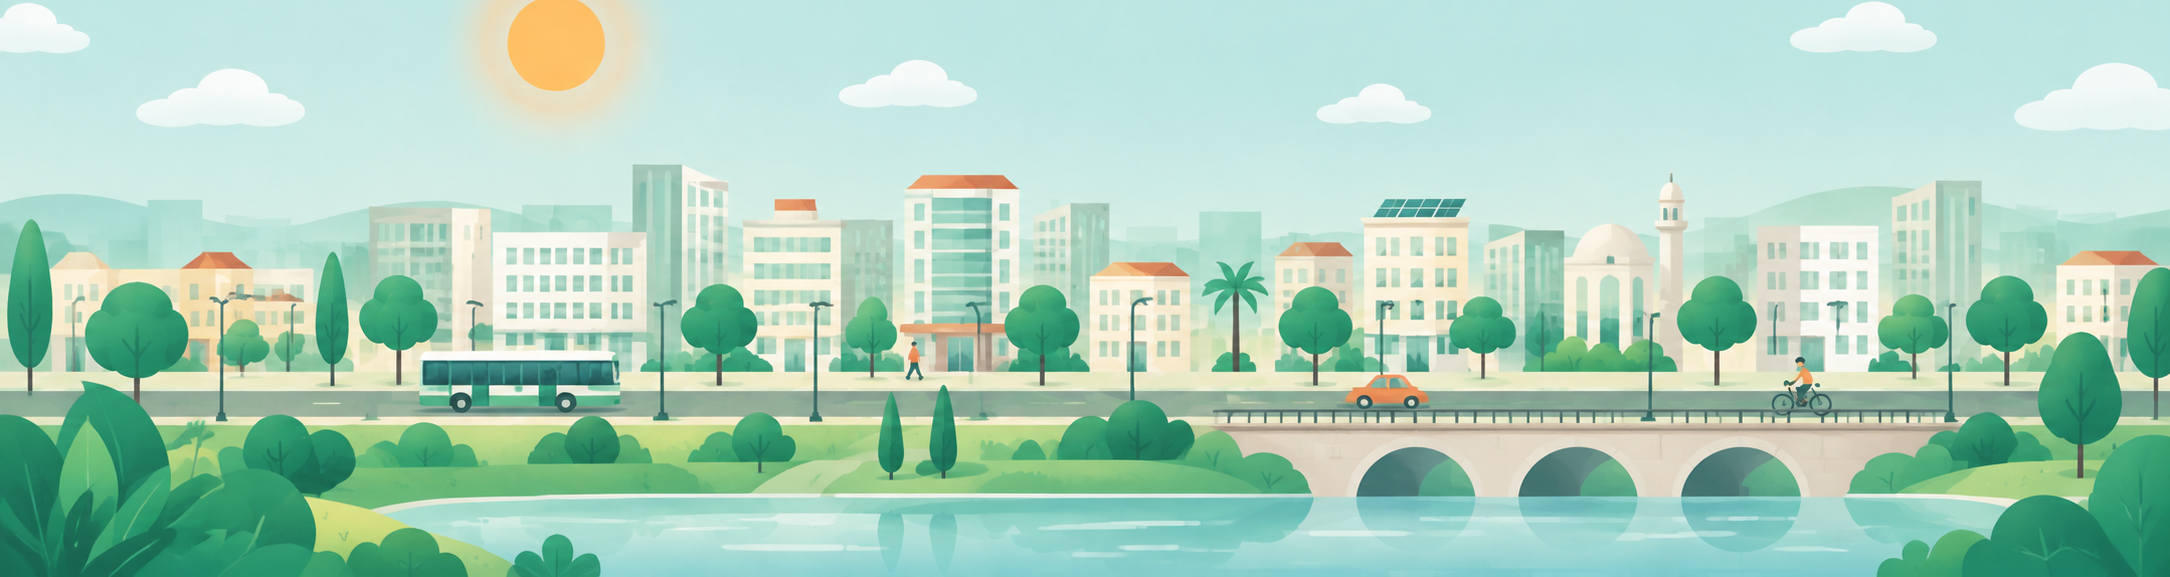
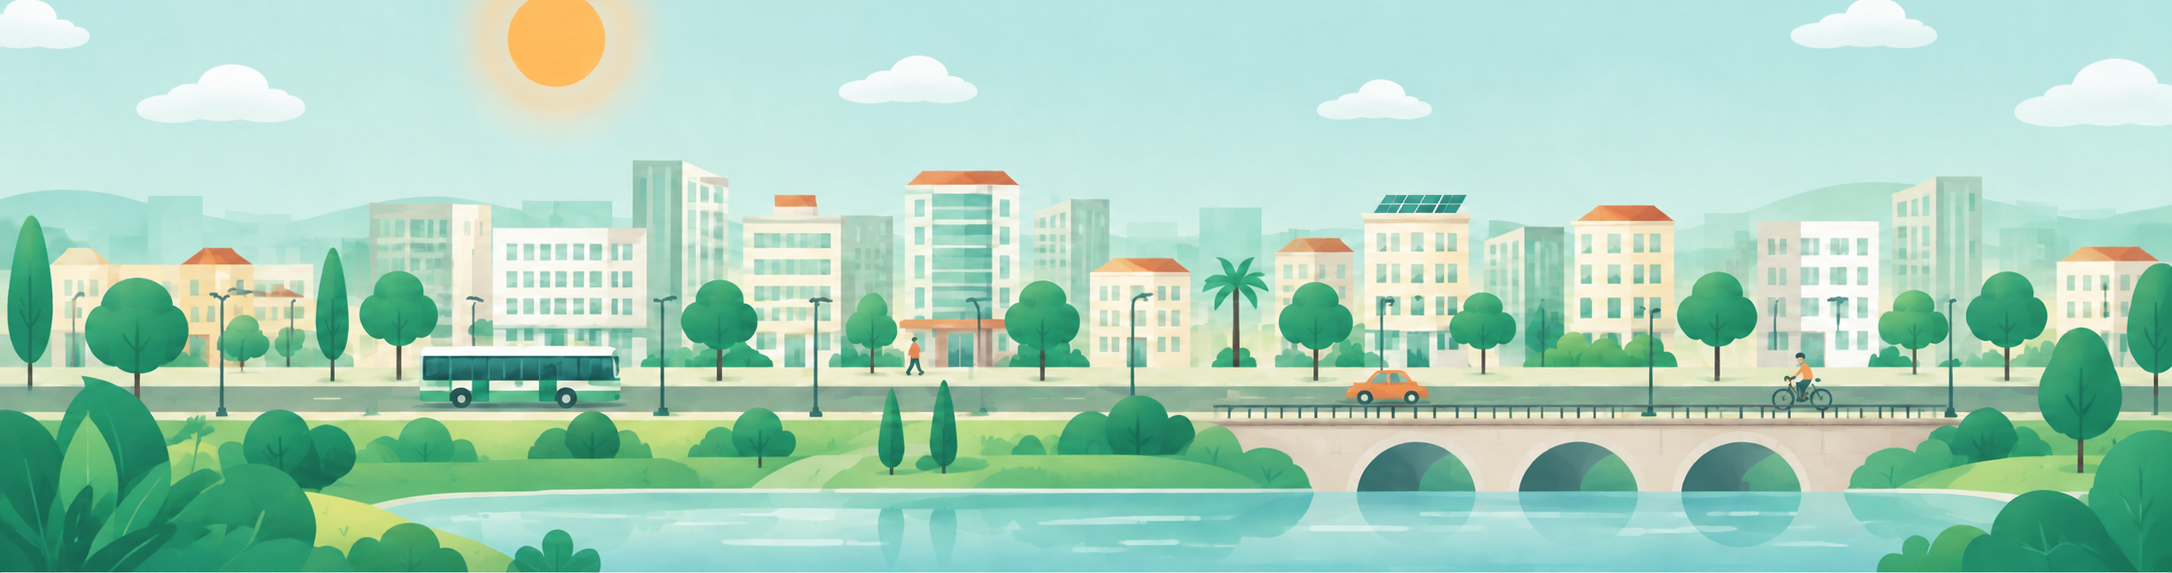
renaming staionary energy

diff --git a/src/app/[locale]/collectivity/projects/[planId]/inventory/InventorySchema/energy/stationary-energy.ts b/src/app/[locale]/collectivity/projects/[planId]/inventory/InventorySchema/energy/stationary-energy.ts
@@ -3,9 +3,9 @@ import { z } from "zod";
 import { createYearValueSchema } from "../_shared";
 
 type NonEmptyStringArray = [string, ...string[]];
-type TerritorialEnergyMetricDefinitions = Record<string, NonEmptyStringArray>;
+type StationaryEnergyMetricDefinitions = Record<string, NonEmptyStringArray>;
 
-export const territorialEnergySectorValues = [
+export const stationaryEnergySectorValues = [
   "residential",
   "tertiary",
   "industry",
@@ -13,28 +13,28 @@ export const territorialEnergySectorValues = [
   "agriculture",
 ] as const;
 
-export const territorialEnergySectorSchema = z.enum(territorialEnergySectorValues, {
+export const stationaryEnergySectorSchema = z.enum(stationaryEnergySectorValues, {
   errorMap: () => ({ message: "Required" }),
 });
 
-export type TerritorialEnergySector = (typeof territorialEnergySectorValues)[number];
+export type StationaryEnergySector = (typeof stationaryEnergySectorValues)[number];
 
-export type TerritorialEnergyLineDefinitions = Record<
+export type StationaryEnergyLineDefinitions = Record<
   string,
   {
-    sector: TerritorialEnergySector;
+    sector: StationaryEnergySector;
     required?: boolean;
   }
 >;
 
-type TerritorialEnergyBlockSchemaOptions<FixedLines extends TerritorialEnergyLineDefinitions> = {
+type StationaryEnergyBlockSchemaOptions<FixedLines extends StationaryEnergyLineDefinitions> = {
   fixedLines: FixedLines;
-  metrics: TerritorialEnergyMetricDefinitions;
-  optionalMetrics?: TerritorialEnergyMetricDefinitions;
+  metrics: StationaryEnergyMetricDefinitions;
+  optionalMetrics?: StationaryEnergyMetricDefinitions;
 };
 
-function createTerritorialEnergyMetricShape(
-  metrics: TerritorialEnergyMetricDefinitions = {},
+function createStationaryEnergyMetricShape(
+  metrics: StationaryEnergyMetricDefinitions = {},
   optional = false
 ) {
   return Object.fromEntries(
@@ -42,12 +42,12 @@ function createTerritorialEnergyMetricShape(
   );
 }
 
-export function createTerritorialEnergyBlockSchema<
-  FixedLines extends TerritorialEnergyLineDefinitions,
->({ fixedLines, metrics, optionalMetrics }: TerritorialEnergyBlockSchemaOptions<FixedLines>) {
+export function createStationaryEnergyBlockSchema<
+  FixedLines extends StationaryEnergyLineDefinitions,
+>({ fixedLines, metrics, optionalMetrics }: StationaryEnergyBlockSchemaOptions<FixedLines>) {
   const metricShape = (optional: boolean = false) => ({
-    ...createTerritorialEnergyMetricShape(metrics, optional),
-    ...createTerritorialEnergyMetricShape(optionalMetrics, true),
+    ...createStationaryEnergyMetricShape(metrics, optional),
+    ...createStationaryEnergyMetricShape(optionalMetrics, true),
   });
 
   return z.object({
@@ -67,7 +67,7 @@ export function createTerritorialEnergyBlockSchema<
       .array(
         z.object({
           label: z.string().min(1, "Required"),
-          sector: territorialEnergySectorSchema,
+          sector: stationaryEnergySectorSchema,
           ...metricShape(),
         })
       )

diff --git a/src/locales/translations/fr.ts b/src/locales/translations/fr.ts
@@ -2841,8 +2841,8 @@ export default {
           municipalPatrimoine: {
             title: "Patrimoine municipal",
           },
-          territorialEnergy: {
-            title: "Energie territoriale",
+          stationaryEnergy: {
+            title: "Énergie stationnaire",
           },
           transportMobility: {
             title: "Transport et mobilite",
@@ -2896,7 +2896,7 @@ export default {
           },
           electricity: {
             title: "Demande d'electricite",
-            description: "Dataset energie territorial connu, sans structure de champs finalisee.",
+            description: "Dataset Énergie stationnaire connu, sans structure de champs finalisee.",
             sourceMode: "TODO entre fournisseur, secteur, usage ou fichier agrege.",
             yearMode: "TODO lecture pluriannuelle et completude par annee.",
             implementationNote:
@@ -2905,7 +2905,7 @@ export default {
           photovoltaic: {
             title: "Photovoltaique",
             description:
-              "Dataset energie territorial cite par le rapport, sans details de champs finalises.",
+              "Dataset Énergie stationnaire cite par le rapport, sans details de champs finalises.",
             sourceMode: "TODO source-native vs year-native.",
             yearMode: "TODO blocs de production ou capacite annuelle.",
             implementationNote: "Placeholder volontaire pour le panneau energie.",
@@ -2913,14 +2913,14 @@ export default {
           naturalGas: {
             title: "Gaz naturel",
             description:
-              "Dataset energie territorial connu, mais encore sans structure de saisie fixe.",
+              "Dataset Énergie stationnaire connu, mais encore sans structure de saisie fixe.",
             sourceMode: "TODO fournisseur vs secteur vs agrege.",
             yearMode: "TODO logique de comparaison inter-annuelle.",
             implementationNote: "Placeholder volontaire pour la route inventaire complete.",
           },
           solarWaterHeating: {
             title: "Chauffe-eau solaire",
-            description: "Dataset energie territorial cite, encore en mode placeholder produit.",
+            description: "Dataset Énergie stationnaire cite, encore en mode placeholder produit.",
             sourceMode: "TODO source-native vs year-native.",
             yearMode: "TODO production, nombre d'installations ou capacite.",
             implementationNote:

diff --git a/src/app/[locale]/collectivity/projects/[planId]/inventory/InventorySchema/energy/index.ts b/src/app/[locale]/collectivity/projects/[planId]/inventory/InventorySchema/energy/index.ts
@@ -2,12 +2,12 @@ import { z } from "zod";
 
 import { createGroupSchema, createMatrixSchema, metadata } from "../_shared";
 import { electricity, naturalGas, photovoltaic, solarWaterHeating } from "./config";
-import { createTerritorialEnergyBlockSchema } from "./territorial-energy";
+import { createStationaryEnergyBlockSchema } from "./stationary-energy";
 export { energyDefault } from "./default";
 
 const electricitySchema = z.object({
   dataSet: z.object({
-    lt: createTerritorialEnergyBlockSchema({
+    lt: createStationaryEnergyBlockSchema({
       fixedLines: electricity.lines.lt,
       metrics: {
         consumption: electricity.units.tensions.consumption,
@@ -16,7 +16,7 @@ const electricitySchema = z.object({
         subscribers: electricity.units.tensions.subscribers,
       },
     }),
-    mt: createTerritorialEnergyBlockSchema({
+    mt: createStationaryEnergyBlockSchema({
       fixedLines: electricity.lines.mt,
       metrics: {
         consumption: electricity.units.tensions.consumption,
@@ -25,7 +25,7 @@ const electricitySchema = z.object({
         subscribers: electricity.units.tensions.subscribers,
       },
     }),
-    ht: createTerritorialEnergyBlockSchema({
+    ht: createStationaryEnergyBlockSchema({
       fixedLines: electricity.lines.ht,
       metrics: {
         consumption: electricity.units.tensions.consumption,
@@ -40,7 +40,7 @@ const electricitySchema = z.object({
 
 const naturalGasSchema = z.object({
   dataSet: z.object({
-    lp: createTerritorialEnergyBlockSchema({
+    lp: createStationaryEnergyBlockSchema({
       fixedLines: naturalGas.lines.lp,
       metrics: {
         consumption: naturalGas.units.tensions.consumption,
@@ -49,7 +49,7 @@ const naturalGasSchema = z.object({
         subscribers: naturalGas.units.tensions.subscribers,
       },
     }),
-    mp: createTerritorialEnergyBlockSchema({
+    mp: createStationaryEnergyBlockSchema({
       fixedLines: naturalGas.lines.mp,
       metrics: {
         consumption: naturalGas.units.tensions.consumption,
@@ -58,7 +58,7 @@ const naturalGasSchema = z.object({
         subscribers: naturalGas.units.tensions.subscribers,
       },
     }),
-    hp: createTerritorialEnergyBlockSchema({
+    hp: createStationaryEnergyBlockSchema({
       fixedLines: naturalGas.lines.hp,
       metrics: {
         consumption: naturalGas.units.tensions.consumption,

diff --git a/src/app/[locale]/collectivity/projects/[planId]/inventory/InventorySchema/energy/config.ts b/src/app/[locale]/collectivity/projects/[planId]/inventory/InventorySchema/energy/config.ts
@@ -1,4 +1,4 @@
-import type { TerritorialEnergyLineDefinitions } from "./territorial-energy";
+import type { StationaryEnergyLineDefinitions } from "./stationary-energy";
 import { electricityConsumptionUnits } from "../_sharedUnits";
 
 type UnitConf = {
@@ -45,7 +45,7 @@ const electricityLtLines = {
   smallIndustry: { sector: "industry" },
   workshops: { sector: "industry" },
   industries: { sector: "industry" },
-} as const satisfies TerritorialEnergyLineDefinitions;
+} as const satisfies StationaryEnergyLineDefinitions;
 
 const electricityMtLines = {
   extractive: { sector: "industry" },
@@ -57,13 +57,13 @@ const electricityMtLines = {
   pumping: { sector: "tertiary" },
   tourism: { sector: "tertiary" },
   transportTelco: { sector: "tertiary" },
-} as const satisfies TerritorialEnergyLineDefinitions;
+} as const satisfies StationaryEnergyLineDefinitions;
 
 const electricityHtLines = {
   cement: { sector: "industry" },
   water: { sector: "tertiary" },
   industrialZone: { sector: "industry" },
-} as const satisfies TerritorialEnergyLineDefinitions;
+} as const satisfies StationaryEnergyLineDefinitions;
 
 const electricityUnits: UnitConf = {
   tensions: {
@@ -136,7 +136,7 @@ const naturalGasLpLines = {
   smallIndustry: { sector: "industry" },
   workshops: { sector: "industry" },
   industries: { sector: "industry" },
-} as const satisfies TerritorialEnergyLineDefinitions;
+} as const satisfies StationaryEnergyLineDefinitions;
 
 const naturalGasMpLines = {
   extractive: { sector: "industry" },
@@ -148,12 +148,12 @@ const naturalGasMpLines = {
   tourism: { sector: "tertiary" },
   transportTelco: { sector: "tertiary" },
   services: { sector: "tertiary" },
-} as const satisfies TerritorialEnergyLineDefinitions;
+} as const satisfies StationaryEnergyLineDefinitions;
 
 const naturalGasHpLines = {
   powerPlant: { sector: "industry" },
   industrialHub: { sector: "industry" },
-} as const satisfies TerritorialEnergyLineDefinitions;
+} as const satisfies StationaryEnergyLineDefinitions;
 
 const naturalGasUnits: UnitConf = {
   tensions: {

diff --git a/src/app/[locale]/collectivity/projects/[planId]/inventory/inventoryProgress.ts b/src/app/[locale]/collectivity/projects/[planId]/inventory/inventoryProgress.ts
@@ -117,7 +117,7 @@ function computeYearBlockProgress(
   return createProgress(completed, total);
 }
 
-function computeTerritorialEnergyBlockProgress(
+function computeStationaryEnergyBlockProgress(
   block: unknown,
   metricKeys: readonly string[],
   fixedLineCount: number,
@@ -207,19 +207,19 @@ function computeElectricityProgress(
     | { lt?: unknown; mt?: unknown; ht?: unknown }
     | undefined;
   const metricKeys = ["consumption"] as const;
-  const lt = computeTerritorialEnergyBlockProgress(
+  const lt = computeStationaryEnergyBlockProgress(
     dataSet?.lt,
     metricKeys,
     Object.keys(electricity.lines.lt).length,
     years
   );
-  const mt = computeTerritorialEnergyBlockProgress(
+  const mt = computeStationaryEnergyBlockProgress(
     dataSet?.mt,
     metricKeys,
     Object.keys(electricity.lines.mt).length,
     years
   );
-  const ht = computeTerritorialEnergyBlockProgress(
+  const ht = computeStationaryEnergyBlockProgress(
     dataSet?.ht,
     metricKeys,
     Object.keys(electricity.lines.ht).length,
@@ -237,19 +237,19 @@ function computeNaturalGasProgress(
     | { bp?: unknown; mp?: unknown; hp?: unknown }
     | undefined;
   const metricKeys = ["consumption"] as const;
-  const bp = computeTerritorialEnergyBlockProgress(
+  const bp = computeStationaryEnergyBlockProgress(
     dataSet?.bp,
     metricKeys,
     Object.keys(naturalGas.lines.lp).length,
     years
   );
-  const mp = computeTerritorialEnergyBlockProgress(
+  const mp = computeStationaryEnergyBlockProgress(
     dataSet?.mp,
     metricKeys,
     Object.keys(naturalGas.lines.mp).length,
     years
   );
-  const hp = computeTerritorialEnergyBlockProgress(
+  const hp = computeStationaryEnergyBlockProgress(
     dataSet?.hp,
     metricKeys,
     Object.keys(naturalGas.lines.hp).length,

diff --git a/src/app/[locale]/collectivity/projects/[planId]/inventory/datasets/energy/natural-gas/surface.tsx b/src/app/[locale]/collectivity/projects/[planId]/inventory/datasets/energy/natural-gas/surface.tsx
@@ -14,7 +14,7 @@ import InventoryYearSelector, {
   InventoryYearErrors,
 } from "../../../components/InventoryYearSelector";
 import { useInventoryContext } from "../../../context/inventory-context";
-import { territorialEnergySectorValues } from "../../../InventorySchema/energy/territorial-energy";
+import { stationaryEnergySectorValues } from "../../../InventorySchema/energy/stationary-energy";
 import {
   buildNaturalGasAssumptionFields,
   buildNaturalGasFixedLines,
@@ -56,7 +56,7 @@ export default function NaturalGasSurface() {
     metrics: buildNaturalGasMetrics(tNaturalGas),
     populationRows: buildNaturalGasPopulationRows(tNaturalGas),
     assumptionFields: buildNaturalGasAssumptionFields(tNaturalGas),
-    sectorOptions: territorialEnergySectorValues.map((sector) => ({
+    sectorOptions: stationaryEnergySectorValues.map((sector) => ({
       value: sector,
       label: tTable(`sectors.${sector}`),
     })),

diff --git a/src/app/[locale]/collectivity/projects/[planId]/inventory/registry.ts b/src/app/[locale]/collectivity/projects/[planId]/inventory/registry.ts
@@ -3,7 +3,7 @@ import type { InventoryDataset, InventoryWorkspaceConfig } from "./types";
 
 const families = [
   "municipalPatrimoine",
-  "territorialEnergy",
+  "stationaryEnergy",
   "transportMobility",
   "afat",
   "waste",
@@ -23,8 +23,8 @@ const datasetDefinitions = [
   { key: "publicLighting", familyKey: "municipalPatrimoine" },
   { key: "buildings", familyKey: "municipalPatrimoine" },
   { key: "treesParksWaste", familyKey: "municipalPatrimoine" },
-  { key: "electricity", familyKey: "territorialEnergy" },
-  { key: "naturalGas", familyKey: "territorialEnergy" },
+  { key: "electricity", familyKey: "stationaryEnergy" },
+  { key: "naturalGas", familyKey: "stationaryEnergy" },
   { key: "port", familyKey: "transportMobility", applicability: "port" },
   { key: "buses", familyKey: "transportMobility" },
   { key: "urbanRail", familyKey: "transportMobility" },

diff --git a/src/app/[locale]/collectivity/projects/[planId]/inventory/datasets/energy/electricity/surface.tsx b/src/app/[locale]/collectivity/projects/[planId]/inventory/datasets/energy/electricity/surface.tsx
@@ -12,7 +12,7 @@ import InventoryYearSelector, {
   InventoryYearErrors,
 } from "../../../components/InventoryYearSelector";
 import { useInventoryContext } from "../../../context/inventory-context";
-import { territorialEnergySectorValues } from "../../../InventorySchema/energy/territorial-energy";
+import { stationaryEnergySectorValues } from "../../../InventorySchema/energy/stationary-energy";
 import {
   buildElectricityFixedLines,
   buildElectricityMetrics,
@@ -41,7 +41,7 @@ export default function ElectricitySurface() {
       ),
     })),
     metrics: buildElectricityMetrics(tElectricity),
-    sectorOptions: territorialEnergySectorValues.map((sector) => ({
+    sectorOptions: stationaryEnergySectorValues.map((sector) => ({
       value: sector,
       label: tTable(`sectors.${sector}`),
     })),

diff --git a/src/app/[locale]/collectivity/projects/[planId]/inventory/InventorySchema/calculation-readiness/rules/at-least-one-sector-consumption.ts b/src/app/[locale]/collectivity/projects/[planId]/inventory/InventorySchema/calculation-readiness/rules/at-least-one-sector-consumption.ts
@@ -1,15 +1,15 @@
 import { getInventoryYears, getPath, hasActivityValue, toPath } from "../helpers";
 import type { CalculationReadinessIssue } from "../types";
 import type {
-  TerritorialEnergyLineDefinitions,
-  TerritorialEnergySector,
-} from "../../energy/territorial-energy";
+  StationaryEnergyLineDefinitions,
+  StationaryEnergySector,
+} from "../../energy/stationary-energy";
 
 export type AtLeastOneSectorConsumptionRule = {
   datasetBasePath: string;
   ghostErrorPath: string;
-  blocks: Record<string, TerritorialEnergyLineDefinitions>;
-  sector: TerritorialEnergySector;
+  blocks: Record<string, StationaryEnergyLineDefinitions>;
+  sector: StationaryEnergySector;
 };
 
 export function atLeastOneSectorConsumptionRule(rule: AtLeastOneSectorConsumptionRule) {

diff --git a/src/app/[locale]/collectivity/projects/[planId]/result/_charts/TerritorialEnergyChart.tsx b/src/app/[locale]/collectivity/projects/[planId]/result/_charts/TerritorialEnergyChart.tsx
@@ -123,7 +123,7 @@ export default function TerritorialEnergyChart({
           t(`territorialEnergyChart.energySources.${energy}` as Parameters<typeof t>[0]) as string
       )
     : null;
-  const EnergyIcon = getInventoryFamilyNavIcon("territorialEnergy");
+  const EnergyIcon = getInventoryFamilyNavIcon("stationaryEnergy");
   const TransportIcon = getInventoryFamilyNavIcon("transportMobility");
   const AfatIcon = getInventoryFamilyNavIcon("afat");
   const MunicipalIcon = getInventoryFamilyNavIcon("municipalPatrimoine");

diff --git a/src/app/[locale]/collectivity/projects/[planId]/inventory/InventoryWorkspace/index.tsx b/src/app/[locale]/collectivity/projects/[planId]/inventory/InventoryWorkspace/index.tsx
@@ -381,7 +381,7 @@ export default function InventoryWorkspace({
     switch (activeFamilyKey) {
       case "municipalPatrimoine":
         return "/form/banner-illustrations/05_mairie_place.png";
-      case "territorialEnergy":
+      case "stationaryEnergy":
         return "/form/banner-illustrations/03_zone_industrielle.png";
       case "transportMobility":
         return "/form/banner-illustrations/01_ville_skyline.png";

diff --git a/src/locales/translations/en.ts b/src/locales/translations/en.ts
@@ -2807,8 +2807,8 @@ export default {
           municipalPatrimoine: {
             title: "Municipal assets",
           },
-          territorialEnergy: {
-            title: "Territorial energy",
+          stationaryEnergy: {
+            title: "Stationary energy",
           },
           transportMobility: {
             title: "Transport and mobility",
